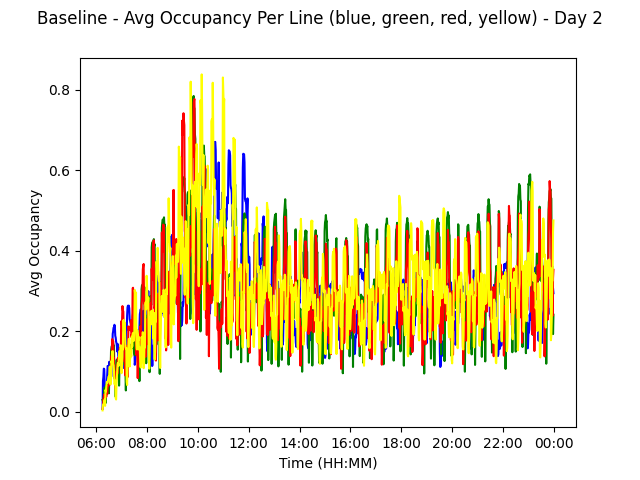
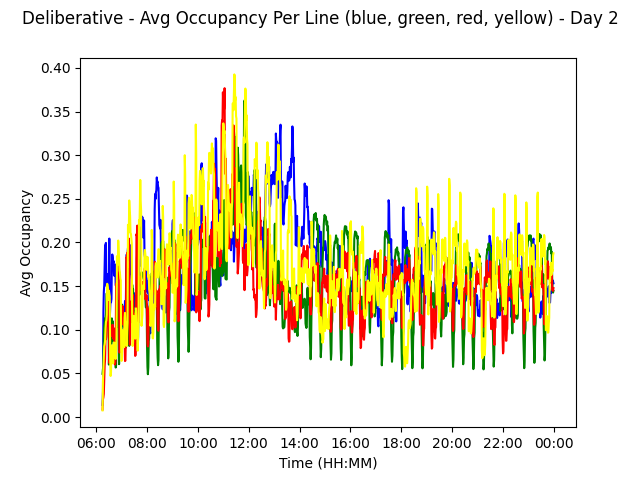
finished deliberative

diff --git a/src/Orchestrator.py b/src/Orchestrator.py
@@ -26,51 +26,72 @@ class Orchestrator:
             self.trains_per_line[c]["1"] = 0
 
         if(flags["behavior"] == "deliberative"):
-            self.stored_perceptions = {}
-            for h in range(6,24):
-                self.stored_perceptions[h] = {}
-                for m in range(0,61):
-                    self.stored_perceptions[h][m] = {}
-                    for c in ["red","green","blue","yellow"]:
-                        self.stored_perceptions[h][m][c] = {}
-                        for s in ["-1","1"]:
-                            self.stored_perceptions[h][m][c][s] = {}
-                            for key in ["lt","occ","avg_p"]:
-                                self.stored_perceptions[h][m][c][s][key] = ""
+            self.reset_stored_perceptions()
                 
+
+    def reset_stored_perceptions(self):
+        self.stored_perceptions = {}
+        for h in range(6,24):
+            self.stored_perceptions[h] = {}
+            for m in range(0,61):
+                self.stored_perceptions[h][m] = {}
+                for c in ["red","green","blue","yellow"]:
+                    self.stored_perceptions[h][m][c] = {}
+                    for s in ["-1","1"]:
+                        self.stored_perceptions[h][m][c][s] = {}
+                        for key in ["lt","occ","avg_p"]:
+                            self.stored_perceptions[h][m][c][s][key] = ""
+
 
     #faz a media de hora para ocupacao das carruagens e numero de pessoas
     def hour_avg(self,string,hour,color,way):
         acc = 0
-        hour = 23 #ALTERAR DE SEGUIDA
-        for m in range(0,60):
+
+        if hour == 6: m = 15
+        else: m = 0
+        for m in range(m,60):
+            #print("o valor de self.stored_perceptions[hour][m][color]" + str(self.stored_perceptions[hour][m][color]))
+            #print("o valor de self.stored_perceptions[hour][m][color][way]" + str(self.stored_perceptions[hour][m][color][way]))
+            #print("o valor de self.stored_perceptions[hour][m][color][string]" + str(self.stored_perceptions[hour][m][color][way][string]))
+
+            
             acc += self.stored_perceptions[hour][m][color][way][string]
         return acc/60
 
     #conta o numero de comboios lancados
     def count_hour_lt(self,hour,color,way):
-        count = 0
-        hour = 23 #ALTERAR DE SEGUIDA
-        for m in range(0,60):
-            count += self.stored_perceptions[hour][m][color][way]["lt"]
+        try:
+            count = 0
+            for m in range(0,60):
+                #print(self.stored_perceptions[hour][m][color][way]["lt"])
+                if(self.stored_perceptions[hour][m][color][way]["lt"]):
+                    count += 1
+        except:
+            print(self.stored_perceptions[hour][m][color][way])
         return count
 
-    def plan(self):
+    def plan_schedule(self):
         plan = {}
         for hour in self.stored_perceptions.keys():
             plan[hour] = {}
             for color in ["blue","yellow","green","red"]:
+                plan[hour][color] = {}
                 for way in ["-1","1"]:
+                        
+                    plan[hour][color][way] = None
                     avg_p = self.hour_avg("avg_p",hour,color,way)
                     avg_o = self.hour_avg("occ",hour,color,way)
                     hour_lt = self.count_hour_lt(hour,color,way)
 
-                    if avg_p  > 15 and avg_o > 0.5:
+                    if avg_p  > 15 and avg_o > 0.4:
                         hour_lt += 1
                     else: hour_lt -= 1
                         
-                    freq  = round((60 / hour_lt),0)
-                    
+                    if(hour_lt != 0): #no trains launched during that hour
+                        freq  = round((60 / hour_lt),0)
+                    else:
+                        freq = 0
+
                     minutos_de_partida = []
                     m = 0
                     while(m < 60):
@@ -78,8 +99,7 @@ class Orchestrator:
                         m += freq
                     plan[hour][color][way] =  minutos_de_partida
 
-        print(plan)
-        exit()
+        return plan
             
     
     def reset(self):
@@ -87,7 +107,8 @@ class Orchestrator:
             self.trains_per_line[c]["-1"] = 0
             self.trains_per_line[c]["1"] = 0
         if(flags["behavior"] == "deliberative"):
-            self.plan()
+            self.plan = self.plan_schedule()
+            self.reset_stored_perceptions()
        
     def get_trains_per_line(self):
         return self.trains_per_line
@@ -175,7 +196,6 @@ class Orchestrator:
 
         if(flags["behavior"] == "baseline"): 
            _, res  = self.launch_trains_baseline(res,color)
-           print("o valor de res e: " + str(res))
 
         elif(flags["behavior"] == "reactive"):
             ways = stations[0].get_ways()
@@ -216,10 +236,24 @@ class Orchestrator:
                         way = res["new_train"][0]["way"]
                         metrics[way_key]["lt"] = True
                     else: metrics[way_key]["lt"] = False
-            
-            
-            self.store_info_deliberative(metrics,color)
+            else: #deliberativo
 
+                metrics = self.get_line_metrics(line_perception)
+                try:
+                    for way in ["-1","1"]:
+                        metrics[way]["lt"] = False
+                        launch_array = self.plan[self.hours][color][way]
+
+                        if(self.minutes in launch_array):
+                            res['new_train'] += self.add_new_train(int(way))
+                            self.trains_per_line[color][way]+=1
+                            metrics[way]["lt"] = True
+                except:
+                    print(self.hours)
+                    print(color)
+                    print(way)
+
+            self.store_info_deliberative(metrics,color)
 
         return res
 

diff --git a/src/Environment.py b/src/Environment.py
@@ -23,7 +23,7 @@ class Environment:
                       Line('green', 2, self.reporter, self.gui)]
         self.orchestrator = Orchestrator(self.lines)
 
-        self.time = datetime.time(23,00)
+        self.time = datetime.time(6,15)
         self.day = 1
 
     #TIME MEASURE
